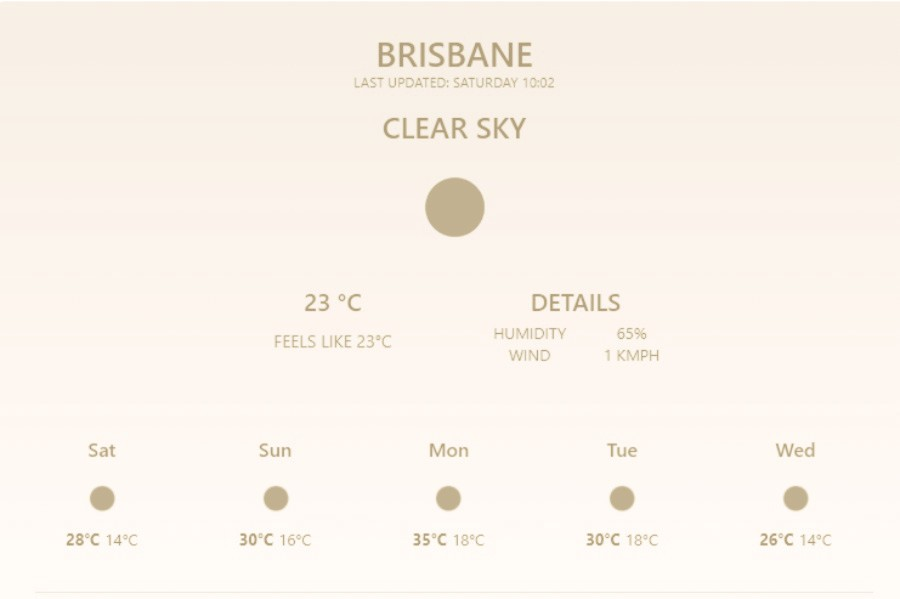
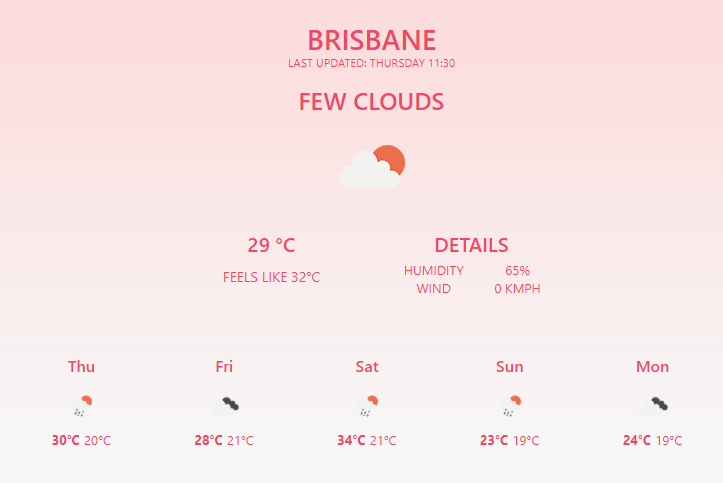
changed project images

diff --git a/src/assets/data/projects.js b/src/assets/data/projects.js
@@ -1,6 +1,6 @@
-import ReactDictionary from "../images/react-dictionary.png";
-import ReactWeather from "../images/react-weather.png";
 import VanillaJSWeather from "../images/vanilla-js-weather.png";
+import ReactWeatherResponsive from "../images/react-weather-responsive.png";
+import ReactDictionaryResponsive from "../images/react-dictionary-responsive.png";
 
 const projects = [
   {
@@ -8,20 +8,23 @@ const projects = [
     name: "Vanilla JS Weather app",
     desc: "My very first project: a weather app built with Vanilla JS and a weather API.",
     img: VanillaJSWeather,
+
     href: "https://nostalgic-raman-1a34c8.netlify.app/",
   },
   {
     id: "ReactWeather",
     name: "React Weather app",
     desc: "Improved my first weather app by building it with React this time, using the same weather API.",
-    img: ReactWeather,
+
+    img: ReactWeatherResponsive,
     href: "https://vigorous-ardinghelli-6f16a0.netlify.app/",
   },
   {
     id: "ReactDictionary",
     name: "React Dictionary app",
     desc: "Played around with two APIs this time, to build a dictionary app with images based on the search.",
-    img: ReactDictionary,
+
+    img: ReactDictionaryResponsive,
     href: "https://peaceful-perlman-76f930.netlify.app/",
   },
 ];

diff --git a/src/pages/About.js b/src/pages/About.js
@@ -148,15 +148,15 @@ export default function About() {
             <h1 className="about-info-heading">Education</h1>
             <AboutInfoItem
               title="Certifications"
-              items={["Front End Development, React Development, SheCodes"]}
+              items={["Front End Development, React Development -- SheCodes"]}
             />
           </div>
           <div className="about-info-item">
             <AboutInfoItem
               title="University"
               items={[
-                "Zuyd University of Applied Sciences, Maastricht, Netherlands",
-                "Nankai University, Tianjin, China",
+                "Oriental Languages and Communication -- Zuyd University of Applied Sciences, Maastricht, Netherlands",
+                "Chinese Language and Culture -- Nankai University, Tianjin, China",
               ]}
             />
           </div>

diff --git a/src/components/HeroSection.js b/src/components/HeroSection.js
@@ -104,7 +104,7 @@ const HeroStyles = styled.div`
       }
     }
     .hero-img {
-      height: 300px;
+      height: 450px;
     }
     .hero-info {
       margin-top: 3rem;
